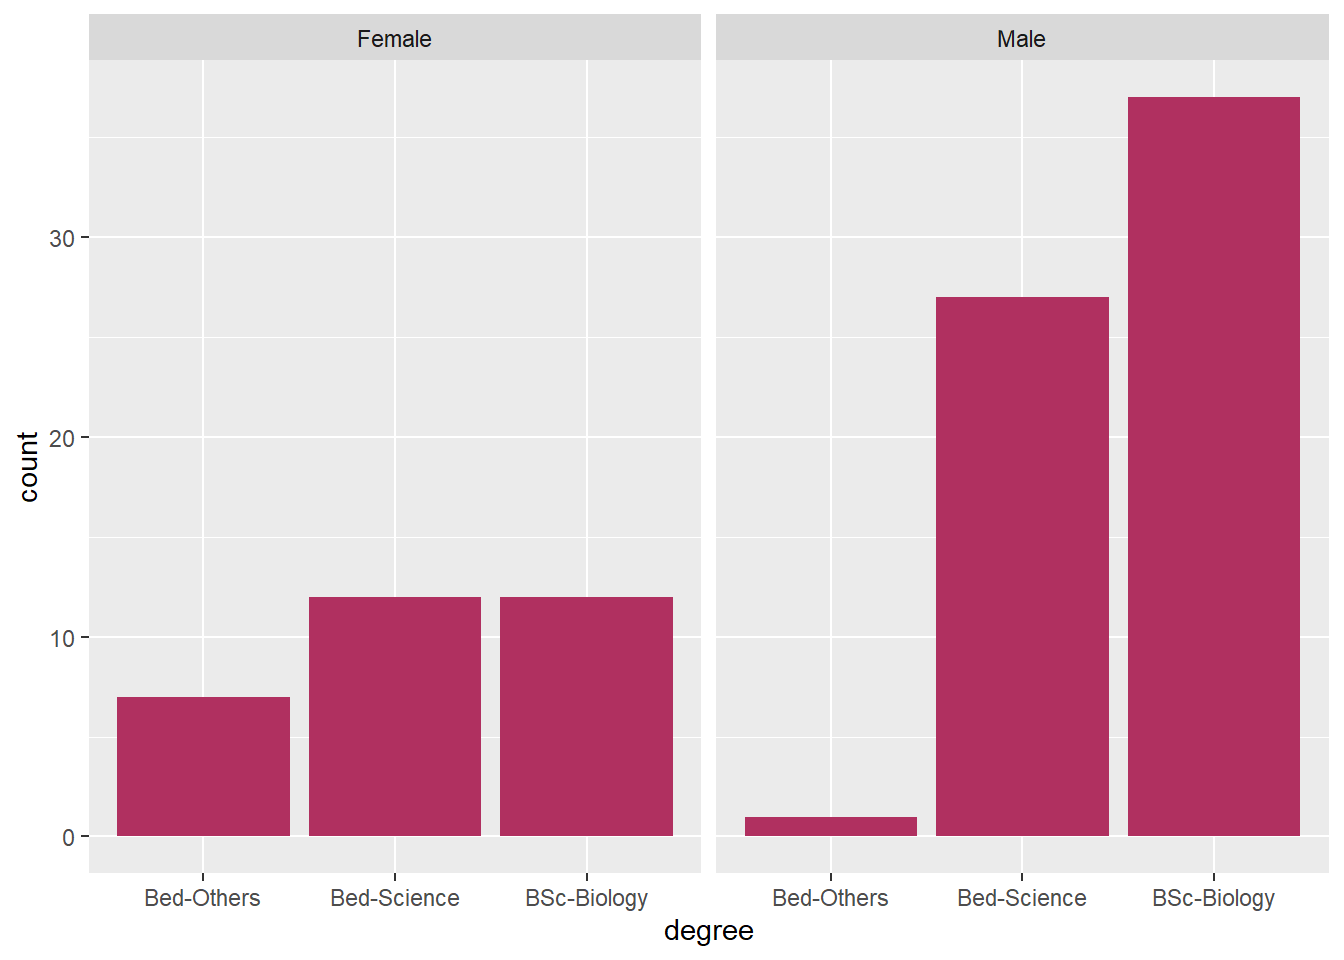
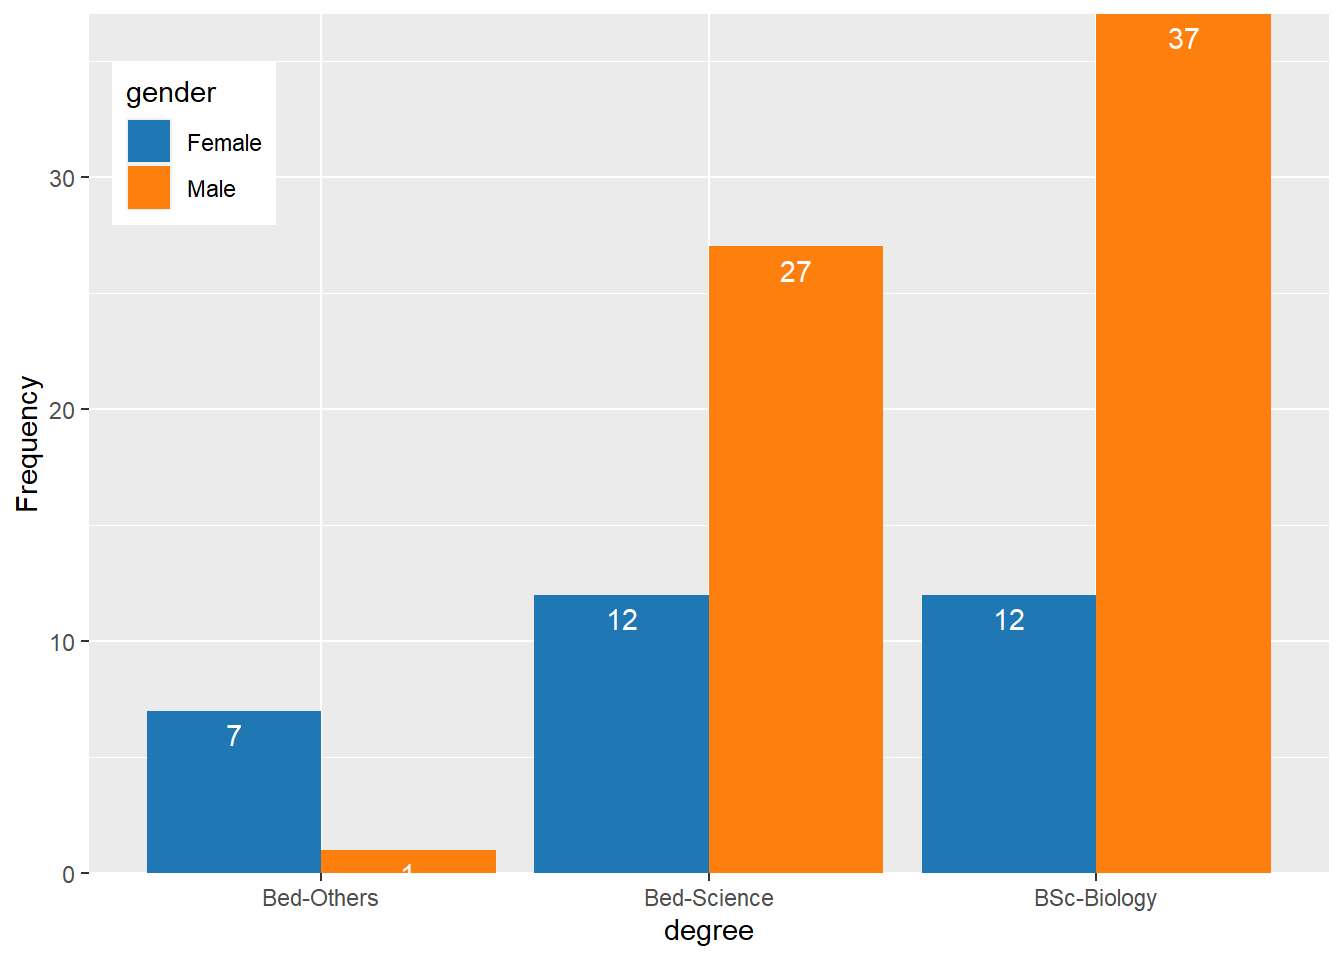
revised post of questionnaire

diff --git a/content/post/2021-11-25-analyse-questionnaire-and-surveys-in-r/index.en.html b/content/post/2021-11-25-analyse-questionnaire-and-surveys-in-r/index.en.html
@@ -42,6 +42,34 @@ library(likert)</code></pre>
 <div id="load-the-dataset" class="section level2">
 <h2>load the dataset</h2>
 <pre class="r"><code>qns =  read_csv(&quot;BIOSTATISTIC-Responses.csv&quot;)</code></pre>
+<pre class="r"><code>qns %&gt;% 
+  glimpse()</code></pre>
+<pre><code>Rows: 96
+Columns: 24
+$ Timestamp                                                                                                                                         &lt;chr&gt; ~
+$ `First Name`                                                                                                                                      &lt;chr&gt; ~
+$ Surname                                                                                                                                           &lt;chr&gt; ~
+$ `Registration Number`                                                                                                                             &lt;chr&gt; ~
+$ `Email address`                                                                                                                                   &lt;chr&gt; ~
+$ Gender                                                                                                                                            &lt;chr&gt; ~
+$ `What is your body weight (in Kilogram)`                                                                                                          &lt;dbl&gt; ~
+$ `What is your body Height (in meters)`                                                                                                            &lt;dbl&gt; ~
+$ `What undergraduate degree programme are you pursuing with at UDOM?`                                                                              &lt;chr&gt; ~
+$ `Looking on yourself, where would you position yourself in the rank below based on the your ability in doing mathematic?`                         &lt;dbl&gt; ~
+$ `Which of the following best describe your objective for taking Biostatistics course`                                                             &lt;chr&gt; ~
+$ `Do you have access to internet enabled Desktop or Laptop?`                                                                                       &lt;chr&gt; ~
+$ `Which subject did you major in your Advanced Level Studies? (Multiple selection)`                                                                &lt;chr&gt; ~
+$ `What statistical software, if any have you used in the past (multiple selection)`                                                                &lt;chr&gt; ~
+$ `How interested would you be in the ability to do labwork, exercise and quizzes  for this Biostatistics course?`                                  &lt;chr&gt; ~
+$ `How interested would you be for group work during the timeflame of this course?`                                                                 &lt;chr&gt; ~
+$ `How interested would you be forming study group with other student?`                                                                             &lt;chr&gt; ~
+$ `When do you typically prefer learning Biostatistics and its application`                                                                         &lt;chr&gt; ~
+$ `What proportion of the time in your semester classes do you spend learning Biostatistics?`                                                       &lt;chr&gt; ~
+$ `What document formats are you familiar with?`                                                                                                    &lt;chr&gt; ~
+$ `In your previous Practical Training, did you collect any biological data?`                                                                       &lt;chr&gt; ~
+$ `If the answer is yes, did you analyse the data you collect?`                                                                                     &lt;chr&gt; ~
+$ `Which software did you use for the analysis of the data you collected?`                                                                          &lt;chr&gt; ~
+$ `Please let us know of any ideas you might have to improve and enhance better understanding of the Biostatistics course to your fellow students?` &lt;chr&gt; ~</code></pre>
 </div>
 <div id="visualizing-survey-data" class="section level2">
 <h2>Visualizing survey data</h2>
@@ -82,7 +110,7 @@ pc</code></pre>
   ggsci::scale_color_d3()+
   theme_bw() +
   theme(legend.position = c(.12,.85))</code></pre>
-<p><img src="{{< blogdown/postref >}}index.en_files/figure-html/unnamed-chunk-5-1.png" width="672" /></p>
+<p><img src="{{< blogdown/postref >}}index.en_files/figure-html/unnamed-chunk-6-1.png" width="672" /></p>
 <!-- The satisfaction of the German course was the lowest as the red line shows the highest density (frequency of responses) of very dissatisfied and dissatisfied ratings. The students in our fictitious data set were most satisfied with the Chinese course as the blue line is the lowest for very dissatisfied and “dissatisfied” ratings while the difference between the courses shrinks for “satisfied” and very satisfied. The Japanese language course is in-between the German and the Chinese course. -->
 </div>
 <div id="pie-charts" class="section level2">
@@ -111,7 +139,7 @@ degree</code></pre>
   coord_polar(theta = &quot;y&quot;, start = 0)+
   theme_void()+
   ggsci::scale_fill_d3()</code></pre>
-<p><img src="{{< blogdown/postref >}}index.en_files/figure-html/unnamed-chunk-7-1.png" width="672" /></p>
+<p><img src="{{< blogdown/postref >}}index.en_files/figure-html/unnamed-chunk-8-1.png" width="672" /></p>
 <p>If the slices of the pie chart are not labelled, it is difficult to see which slices are smaller or bigger compared to other slices. This problem can easily be avoided when using a bar plot instead. This issue can be avoided by adding labels to pie charts. The labeling of pie charts is, however, somewhat tedious as the positioning is tricky. Below is an example for adding labels without specification.</p>
 <pre class="r"><code>degree %&gt;% 
   ggplot(aes(x = &quot;&quot;, y = percent, fill = degree))+
@@ -120,7 +148,7 @@ degree</code></pre>
   geom_text(aes(y = percent, label = percent), color = &quot;white&quot;)+
   theme_void()+
   ggsci::scale_fill_d3()</code></pre>
-<p><img src="{{< blogdown/postref >}}index.en_files/figure-html/unnamed-chunk-8-1.png" width="672" /></p>
+<p><img src="{{< blogdown/postref >}}index.en_files/figure-html/unnamed-chunk-9-1.png" width="672" /></p>
 <p>To place the labels where they make sense, we will add another variable to the data called “Position”.</p>
 <pre class="r"><code>pdegree = degree %&gt;% 
   arrange(desc(degree)) %&gt;% 
@@ -141,7 +169,7 @@ pdegree</code></pre>
   geom_text(aes(y = position, label = percent), color = &quot;white&quot;)+
   theme_void()+
   ggsci::scale_fill_d3()</code></pre>
-<p><img src="{{< blogdown/postref >}}index.en_files/figure-html/unnamed-chunk-10-1.png" width="672" /></p>
+<p><img src="{{< blogdown/postref >}}index.en_files/figure-html/unnamed-chunk-11-1.png" width="672" /></p>
 <p>We will now create separate pie charts for each gender. In a first step, we create a data set that does not only contain the degree levels and their frequency but also the gender.</p>
 <pre class="r"><code>degree.gender = qns %&gt;% 
   rename(degree = 9, gender = Gender) %&gt;% 
@@ -172,7 +200,7 @@ degree.gender</code></pre>
   coord_polar(theta = &quot;y&quot;, start = 0)+
   theme_void()+
   ggsci::scale_fill_d3()</code></pre>
-<p><img src="{{< blogdown/postref >}}index.en_files/figure-html/unnamed-chunk-12-1.png" width="672" /></p>
+<p><img src="{{< blogdown/postref >}}index.en_files/figure-html/unnamed-chunk-13-1.png" width="672" /></p>
 </div>
 <div id="bar-plots" class="section level2">
 <h2>Bar plots</h2>
@@ -196,7 +224,7 @@ degree.count</code></pre>
   geom_text(aes(x = degree, y = n-3, label = n), color = &quot;white&quot;)+
   scale_y_continuous(name = &quot;Frequency&quot;, expand = c(0, NA))+
   ggsci::scale_fill_d3()</code></pre>
-<p><img src="{{< blogdown/postref >}}index.en_files/figure-html/unnamed-chunk-14-1.png" width="672" /></p>
+<p><img src="{{< blogdown/postref >}}index.en_files/figure-html/unnamed-chunk-15-1.png" width="672" /></p>
 <p>Compared with the pie chart, it is much easier to grasp the relative size and order of the percentage values which shows that pie charts are unfit to show relationships between elements in a graph and, as a general rule of thumb, should be avoided.</p>
 <p>Bar plots can be grouped which adds another layer of information that is particularly useful when dealing with frequency counts across multiple categorical variables. But before we can create grouped bar plots, we need to create an appropriate data set.</p>
 <pre class="r"><code>degree.gender.count = qns %&gt;% 
@@ -223,13 +251,13 @@ degree.gender.count</code></pre>
   scale_y_continuous(name = &quot;Frequency&quot;, expand = c(0, NA))+
   ggsci::scale_fill_d3()+
   theme(legend.position = c(.085,.85))</code></pre>
-<p><img src="{{< blogdown/postref >}}index.en_files/figure-html/unnamed-chunk-16-1.png" width="672" /></p>
+<p><img src="{{< blogdown/postref >}}index.en_files/figure-html/unnamed-chunk-17-1.png" width="672" /></p>
 <pre class="r"><code>qns %&gt;% 
   select(degree = 9, gender = Gender) %&gt;% 
   ggplot(aes(x = degree))+
   geom_bar(fill = &quot;maroon&quot;)+
   facet_wrap(~gender)</code></pre>
-<p><img src="{{< blogdown/postref >}}index.en_files/figure-html/unnamed-chunk-17-1.png" width="672" /></p>
+<p><img src="{{< blogdown/postref >}}index.en_files/figure-html/unnamed-chunk-18-1.png" width="672" /></p>
 </div>
 <div id="multiple-response" class="section level2">
 <h2>multiple response</h2>
@@ -251,5 +279,5 @@ degree.gender.count</code></pre>
 <pre class="r"><code>likert.re %&gt;% 
   plot(ordered = F, wrap= 60)+
   ggsci::scale_fill_d3()</code></pre>
-<p><img src="{{< blogdown/postref >}}index.en_files/figure-html/unnamed-chunk-19-1.png" width="672" /></p>
+<p><img src="{{< blogdown/postref >}}index.en_files/figure-html/unnamed-chunk-20-1.png" width="672" /></p>
 </div>
